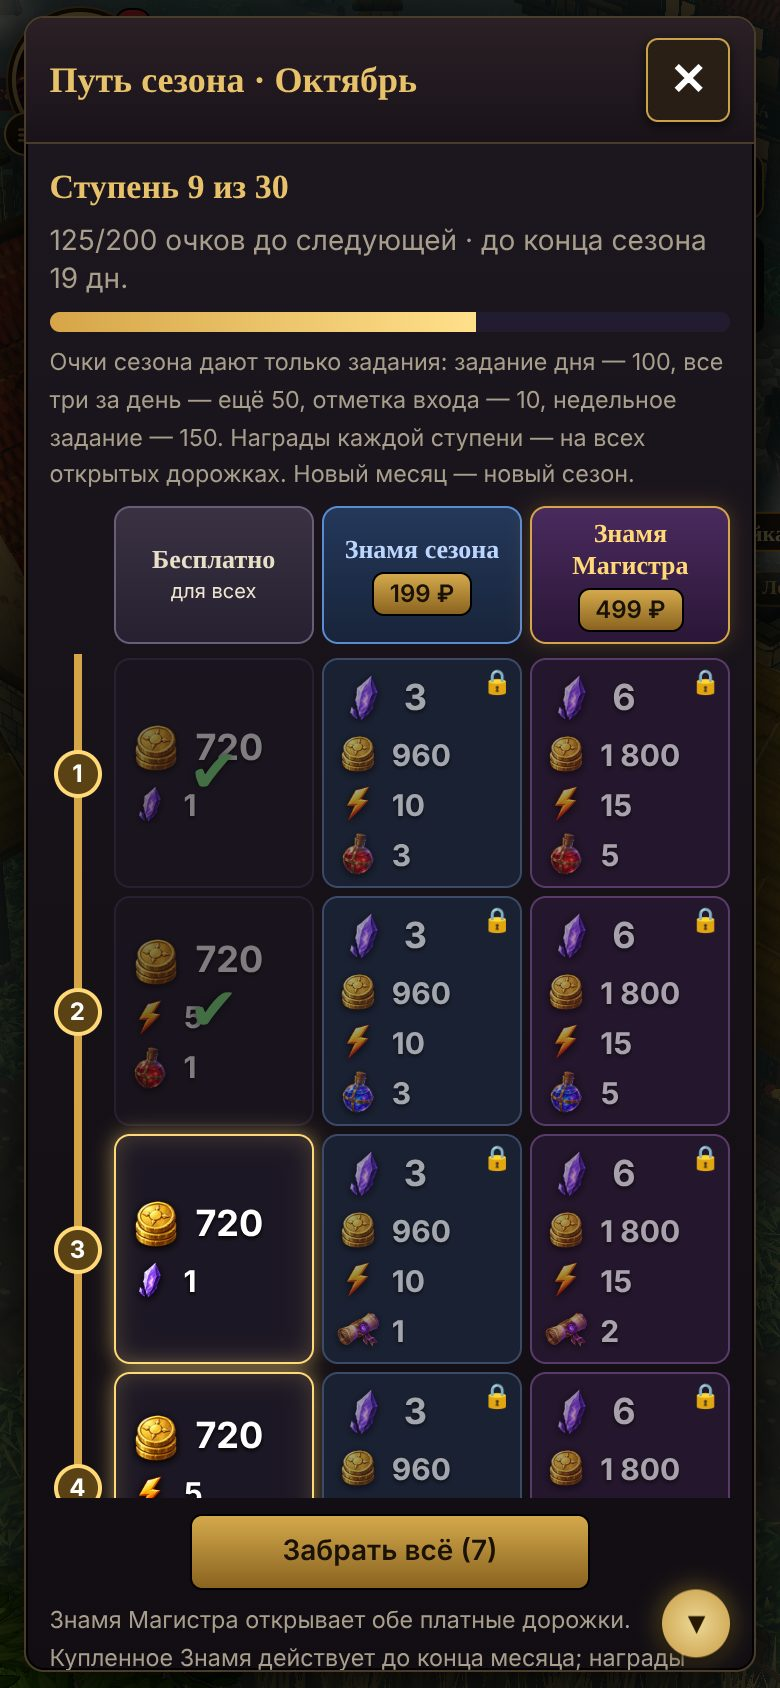
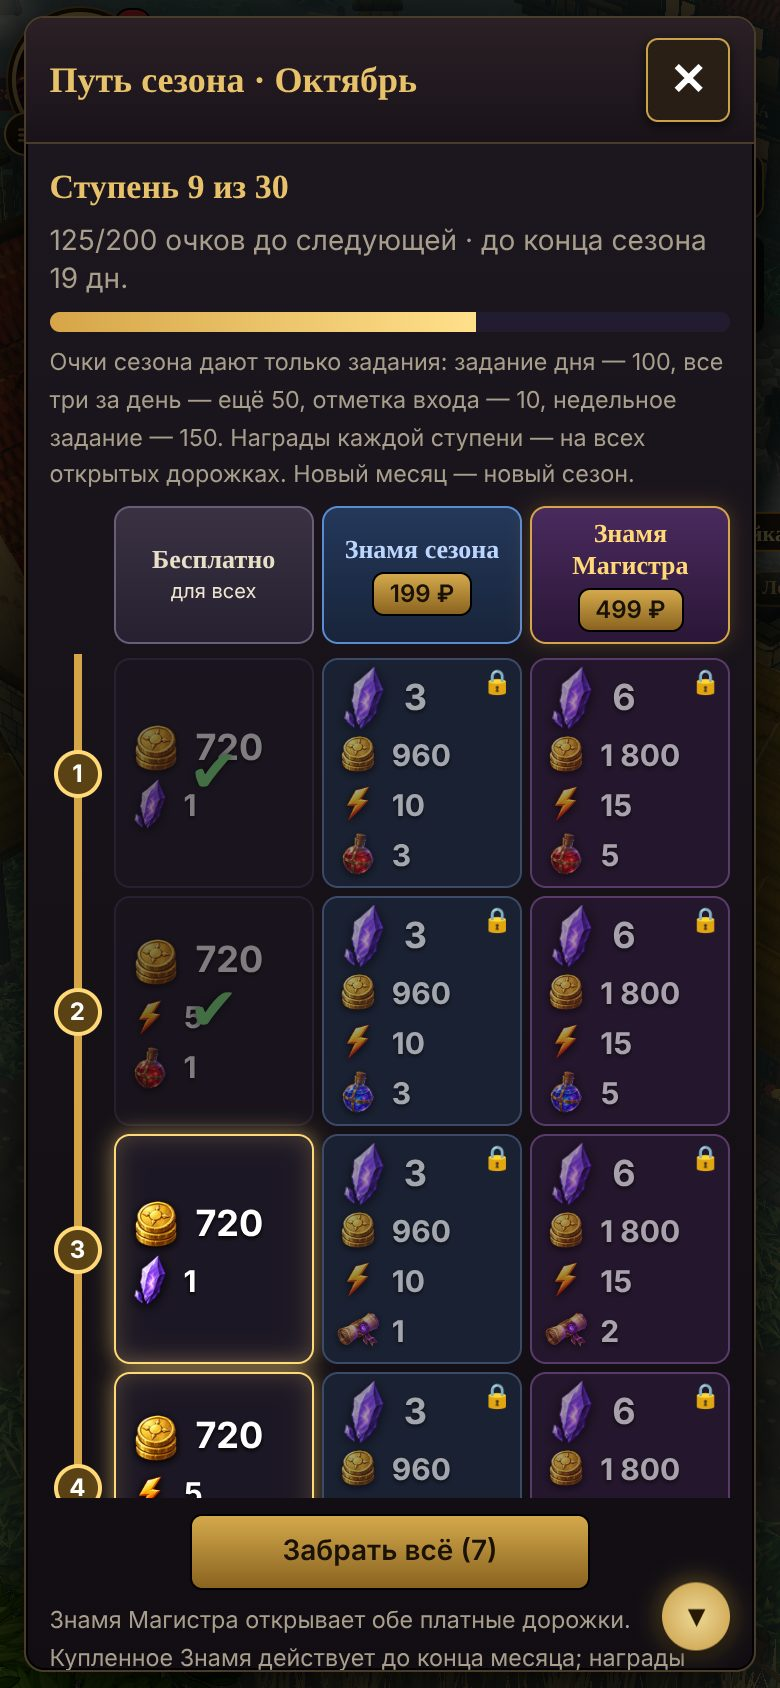
Пропуск: на ПК значки и числа крупнее, два столбца без пустоты; кристалл крупнее
Claude-Session: https://claude.ai/code/session_01DAgmLBNGFsvxryutS51gR7

diff --git a/css/style.css b/css/style.css
@@ -646,6 +646,12 @@ canvas#game{filter:saturate(1.22) contrast(1.08) brightness(1.06)}
 .pc-it.r3 img{background:radial-gradient(#f2cf4aaa,#3e2e10);border-color:#f2cf4a}.pc-it.r3 span{color:#f2cf4a}
 .pc-it.r4 img{background:radial-gradient(#ff5a4aaa,#3e1210);border-color:#ff5a4a}.pc-it.r4 span{color:#ff7a6a}
 .pc.locked .pc-it{opacity:.6}
+.pc-it.k-shards img{transform:scale(1.4)}   /* кристалл узкий в своей картинке — крупнее, вровень с монетами */
+@media (min-width:900px){   /* ПК: клетки широкие — значки и числа крупнее, два столбца без пустоты посередине */
+  .pc{grid-template-columns:repeat(2,max-content);justify-content:space-evenly;gap:4px 18px;padding:7px 8px}
+  .pc-it img{width:30px;height:30px}.pc-it span{font-size:19px}
+  .pc-it.main img{width:36px;height:36px}.pc-it.main span{font-size:23px}
+}
 .pc-lk{position:absolute;top:3px;right:4px;font-style:normal;font-size:12px}
 .pc.got{opacity:.45}.pc-ok{position:absolute;inset:0;display:flex;align-items:center;justify-content:center;font-style:normal;font-size:30px;color:#7be07b;text-shadow:0 0 6px #000}
 .pc.can{border-color:#ffd877;box-shadow:0 0 10px #ffd87788,inset 0 0 12px #ffd87733;animation:pcGlow 1.6s ease-in-out infinite}

diff --git a/js/ui/windows.js b/js/ui/windows.js
@@ -744,7 +744,7 @@ W.season = () => modal('Путь сезона · ' + SE.seasonName(), 'md', b =>
       const R = SE.seasonReward(l, t), got = SE.isClaimed(l, t), open = SE.trackOpen(t), can = SE.canClaim(l, t);
       const c = el('div', `pc t-${t}${R.big ? ' lv-big' : R.mid ? ' lv-mid' : ''}${got ? ' got' : can ? ' can' : ''}${open ? '' : ' locked'}`,
         // правка: значок слева, число крупно рядом — строка на каждую награду, клетка во всю ширину
-        R.list.map((r, i) => `<div class="pc-it${i ? '' : ' main'}${r.k === 'item' ? ' r' + r.n : ''}"><img src="${passIcon(r)}" alt="" draggable="false"><span>${passAmount(r)}</span></div>`).join('') +
+        R.list.map((r, i) => `<div class="pc-it k-${r.k}${i ? '' : ' main'}${r.k === 'item' ? ' r' + r.n : ''}"><img src="${passIcon(r)}" alt="" draggable="false"><span>${passAmount(r)}</span></div>`).join('') +
         (got ? '<em class="pc-ok">✔</em>' : !open ? '<em class="pc-lk">🔒</em>' : ''));
       c.title = R.list.map(SE.rewardLabel).join(', ');
       c.onclick = () => {
